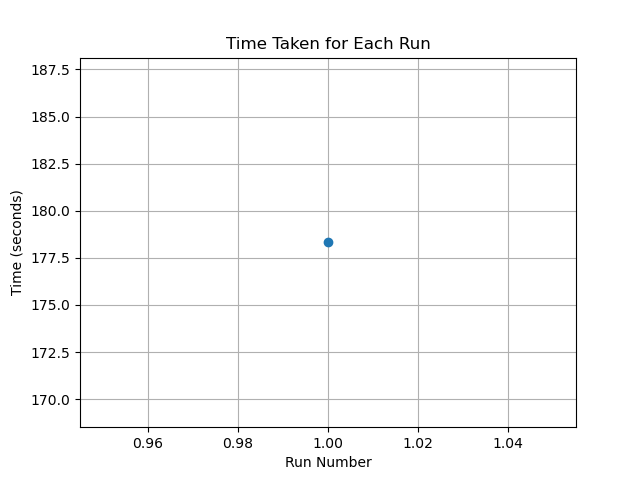
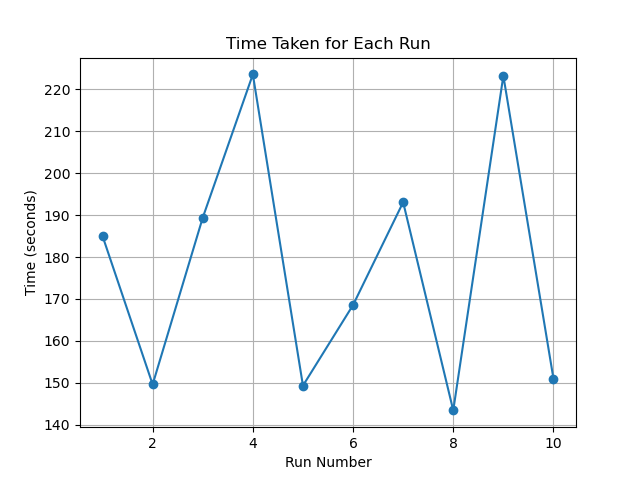
Added /stuck command to fix position

diff --git a/main.py b/main.py
@@ -10,7 +10,7 @@ import utils_enemy
 import utils_areas
 import utils_energy_management
 from utils_skill_management import *
-from utils_movement import handle_movement_sequence
+from utils_movement import handle_movement_sequence, stuck
 from constants import NUMBER_OF_RUNS, MOVEMENT_CHUNK_SIZE
 from utils_general import generate_bbox, capture_and_process_region, is_object
 # Create a keyboard controller
@@ -169,6 +169,8 @@ for run_number in range(NUMBER_OF_RUNS):
         # Re-enable spike mode if an enemy is detected during collecting.
         if (final_position_reached_forward and not phase_spike 
             and not phase_collecting and not turn_around_done):
+            if time.time() - last_movement_time > 30:
+                stuck()
             if time.time() - last_movement_time > 60 or utils_enemy.are_enemies_stacked():
                 # Enable spike mode, after 60 seconds of no movement or if enemies are stacked.
                 phase_spike = True

diff --git a/utils_movement.py b/utils_movement.py
@@ -90,3 +90,21 @@ def handle_movement_sequence(movement_dict, current_movement_key, current_moveme
                 return None, 0.0, current_movement_index, True
     
     return current_movement_key, current_movement_remaining, current_movement_index, False
+
+def stuck():
+    duration = 0.01
+    # Write /stuck in chat to get unstuck
+    keyboard.press(Key.enter)
+    time.sleep(duration)
+    keyboard.release(Key.enter)
+    time.sleep(duration)
+    letter = ['/','s','t','u','c','k']
+    for char in letter:
+        keyboard.press(char)
+        keyboard.release(char)
+        time.sleep(0.01)
+    keyboard.press(Key.enter)
+    time.sleep(duration)
+    keyboard.release(Key.enter)
+    time.sleep(duration)
+

diff --git a/constants.py b/constants.py
@@ -1,3 +1,3 @@
-NUMBER_OF_RUNS = 1  # Number of runs to perform
+NUMBER_OF_RUNS = 10  # Number of runs to perform
 MOVEMENT_CHUNK_SIZE = 1.0  # Split long movements into 0.5-second chunks
 AFTERCAST_DELAY = 0.75 # Delay after casting a skill, in seconds based on this article https://wiki.guildwars.com/wiki/Aftercast_delay
